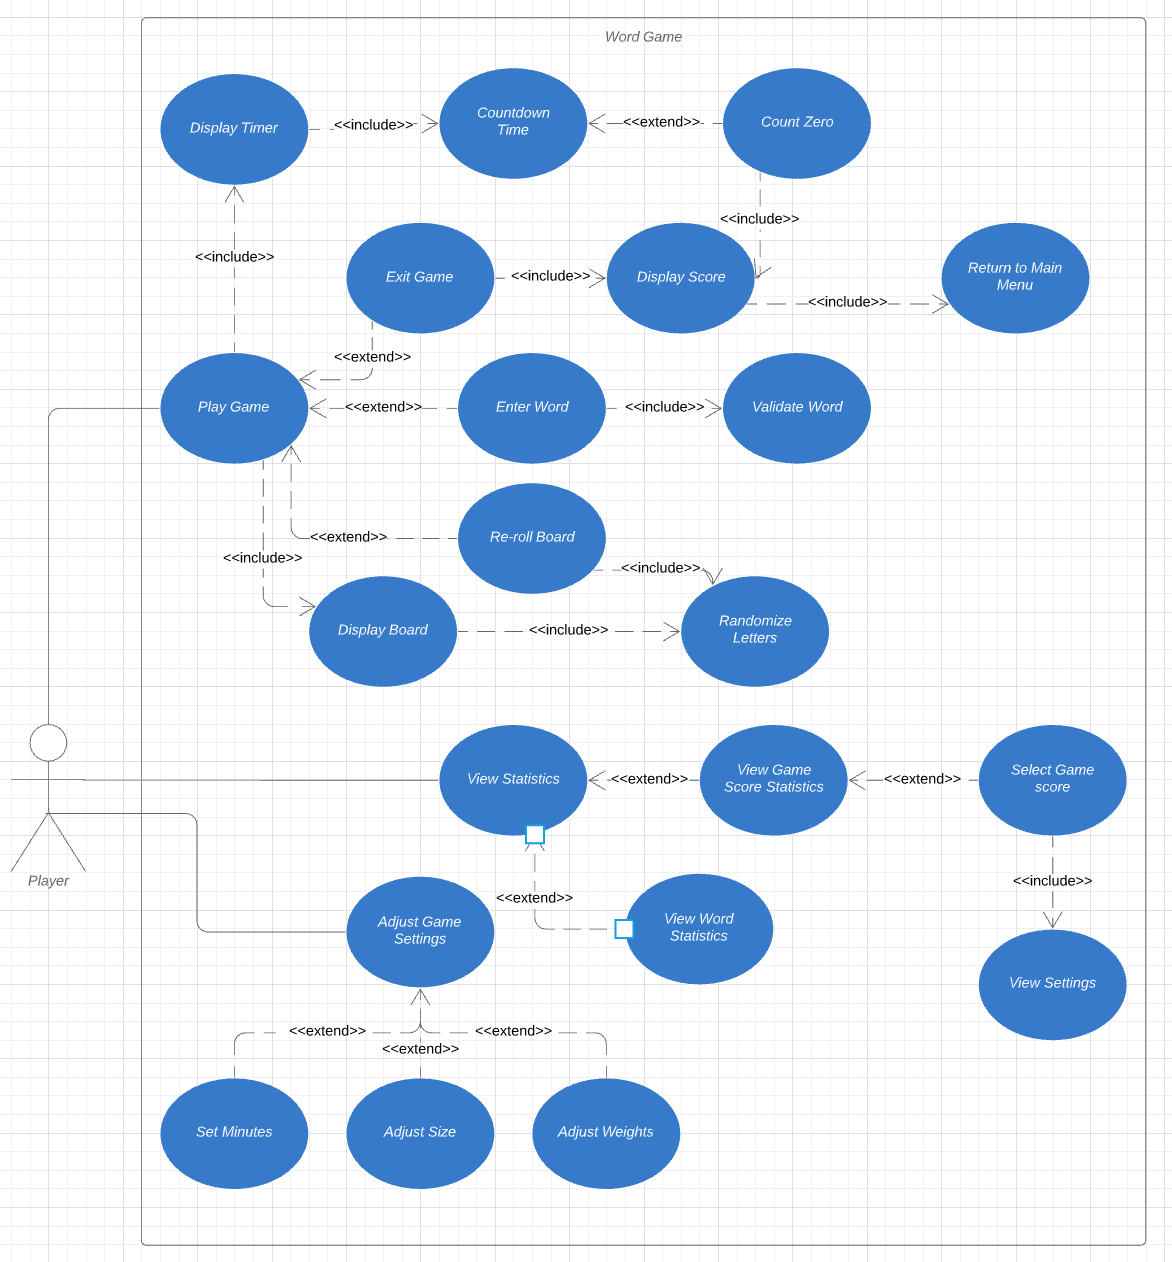
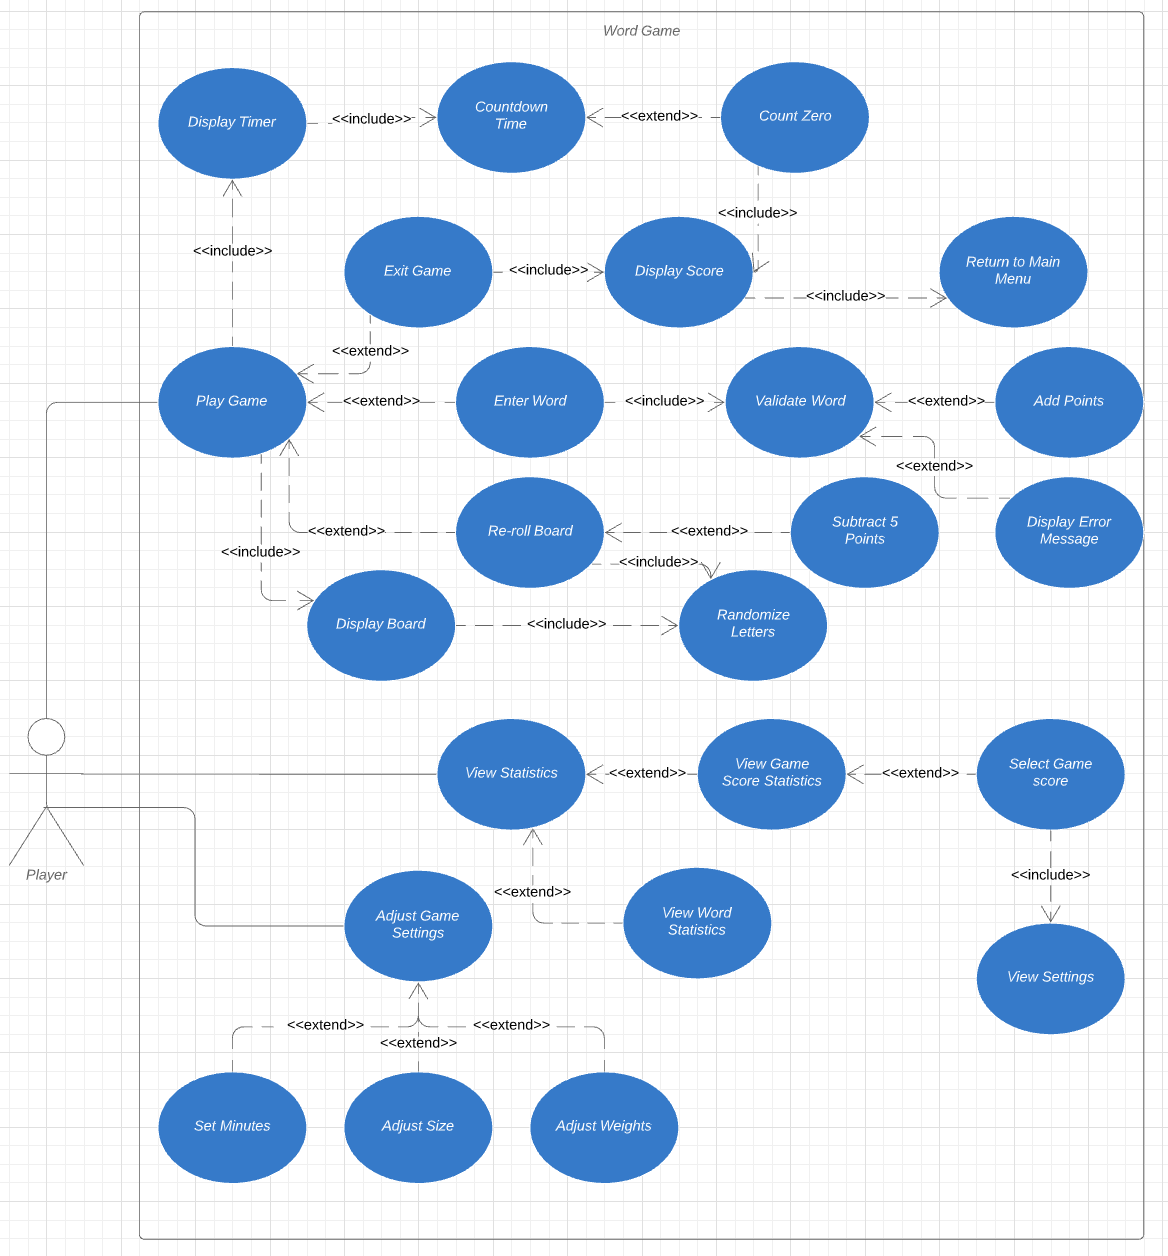
Updated Use Case Model

diff --git a/GroupProject/Docs/UseCaseModel.md b/GroupProject/Docs/UseCaseModel.md
@@ -1,6 +1,8 @@
 # Use Case Model
 
 **Author**: Team112
+**Version**: 1.0
+**Date**: Feb 28 2020
 
 ## 1 Use Case Diagram
 
@@ -40,7 +42,7 @@
             -  word must be validated 
             -  if word is valid, add points to score 
             -  if word is invalid, no points added to score and error message displayed 
-        - If player re-rolls board, the letters become randomized 
+        - If player re-rolls board, the letters become randomized and 5 points are subtracted from the score
         - If player exits game or time runs out
             - Score is displayed
             - Player is returned back to main menu 
